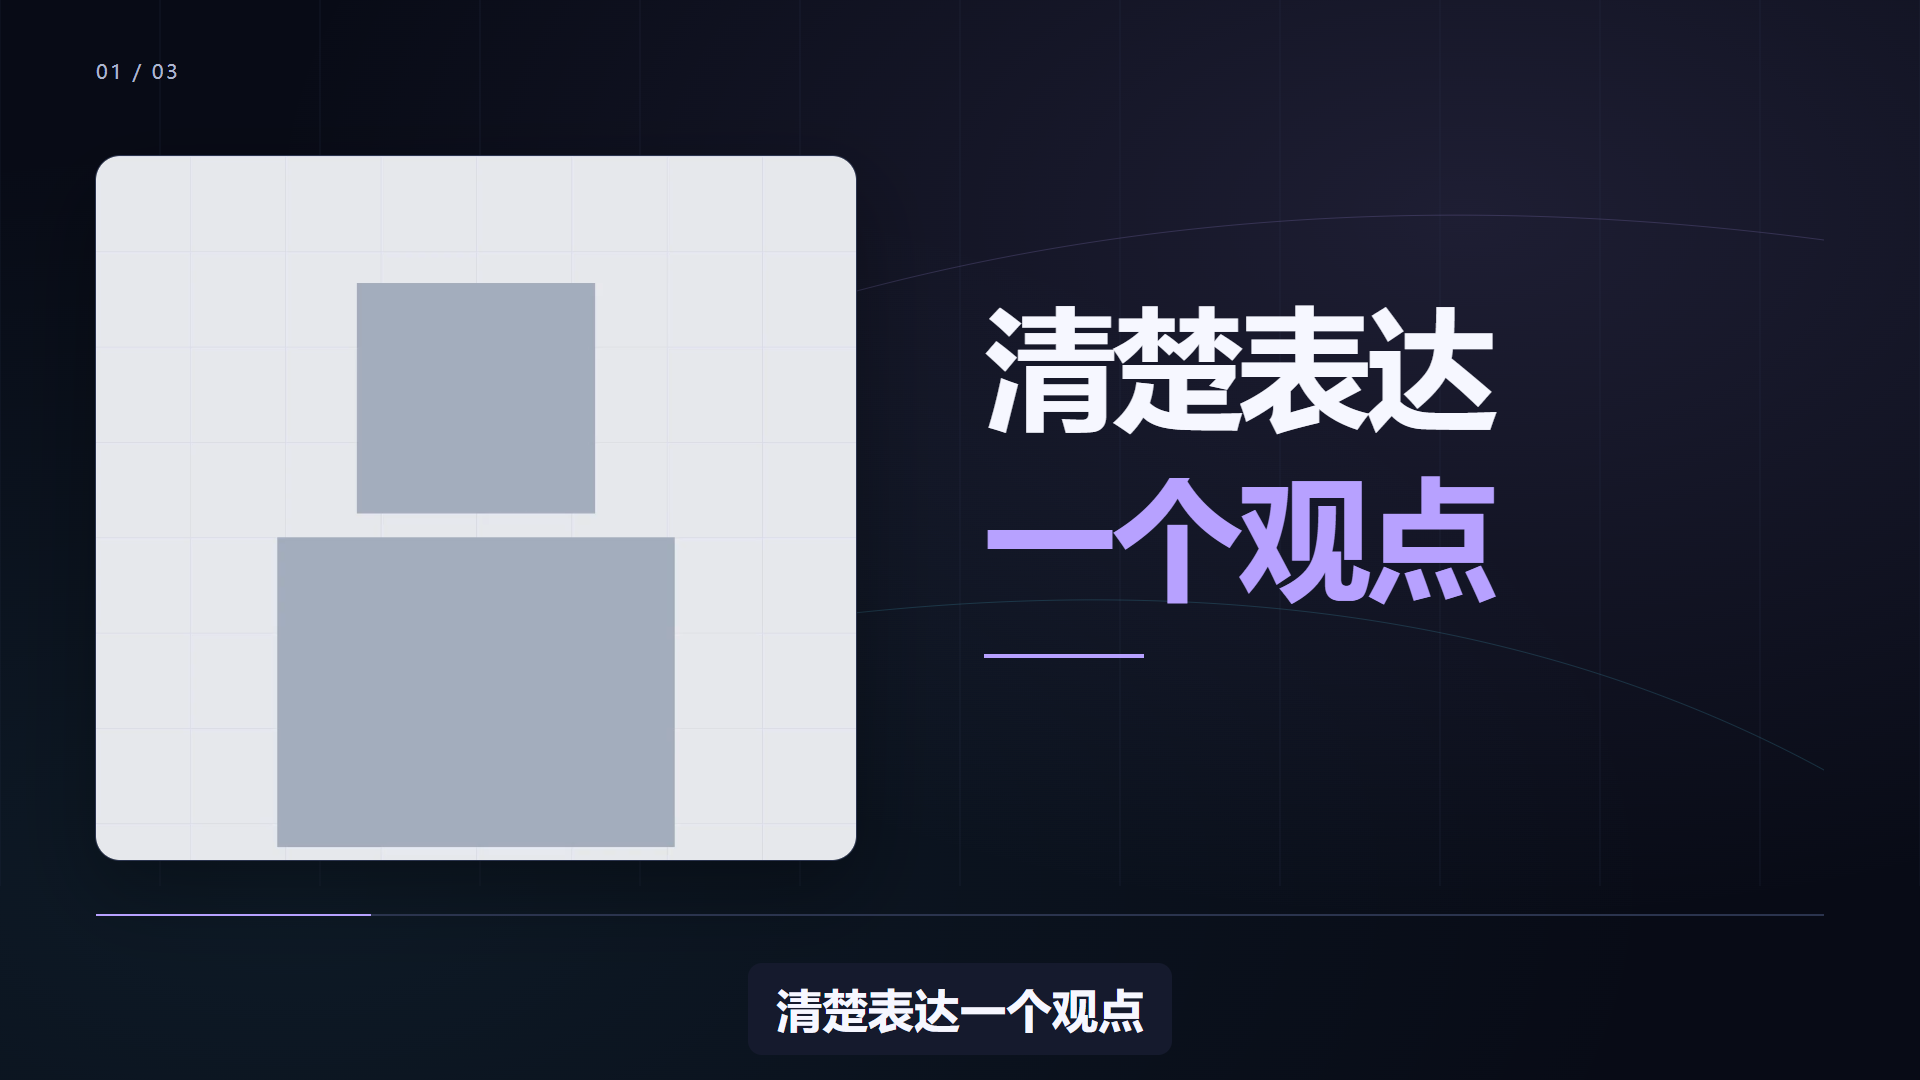
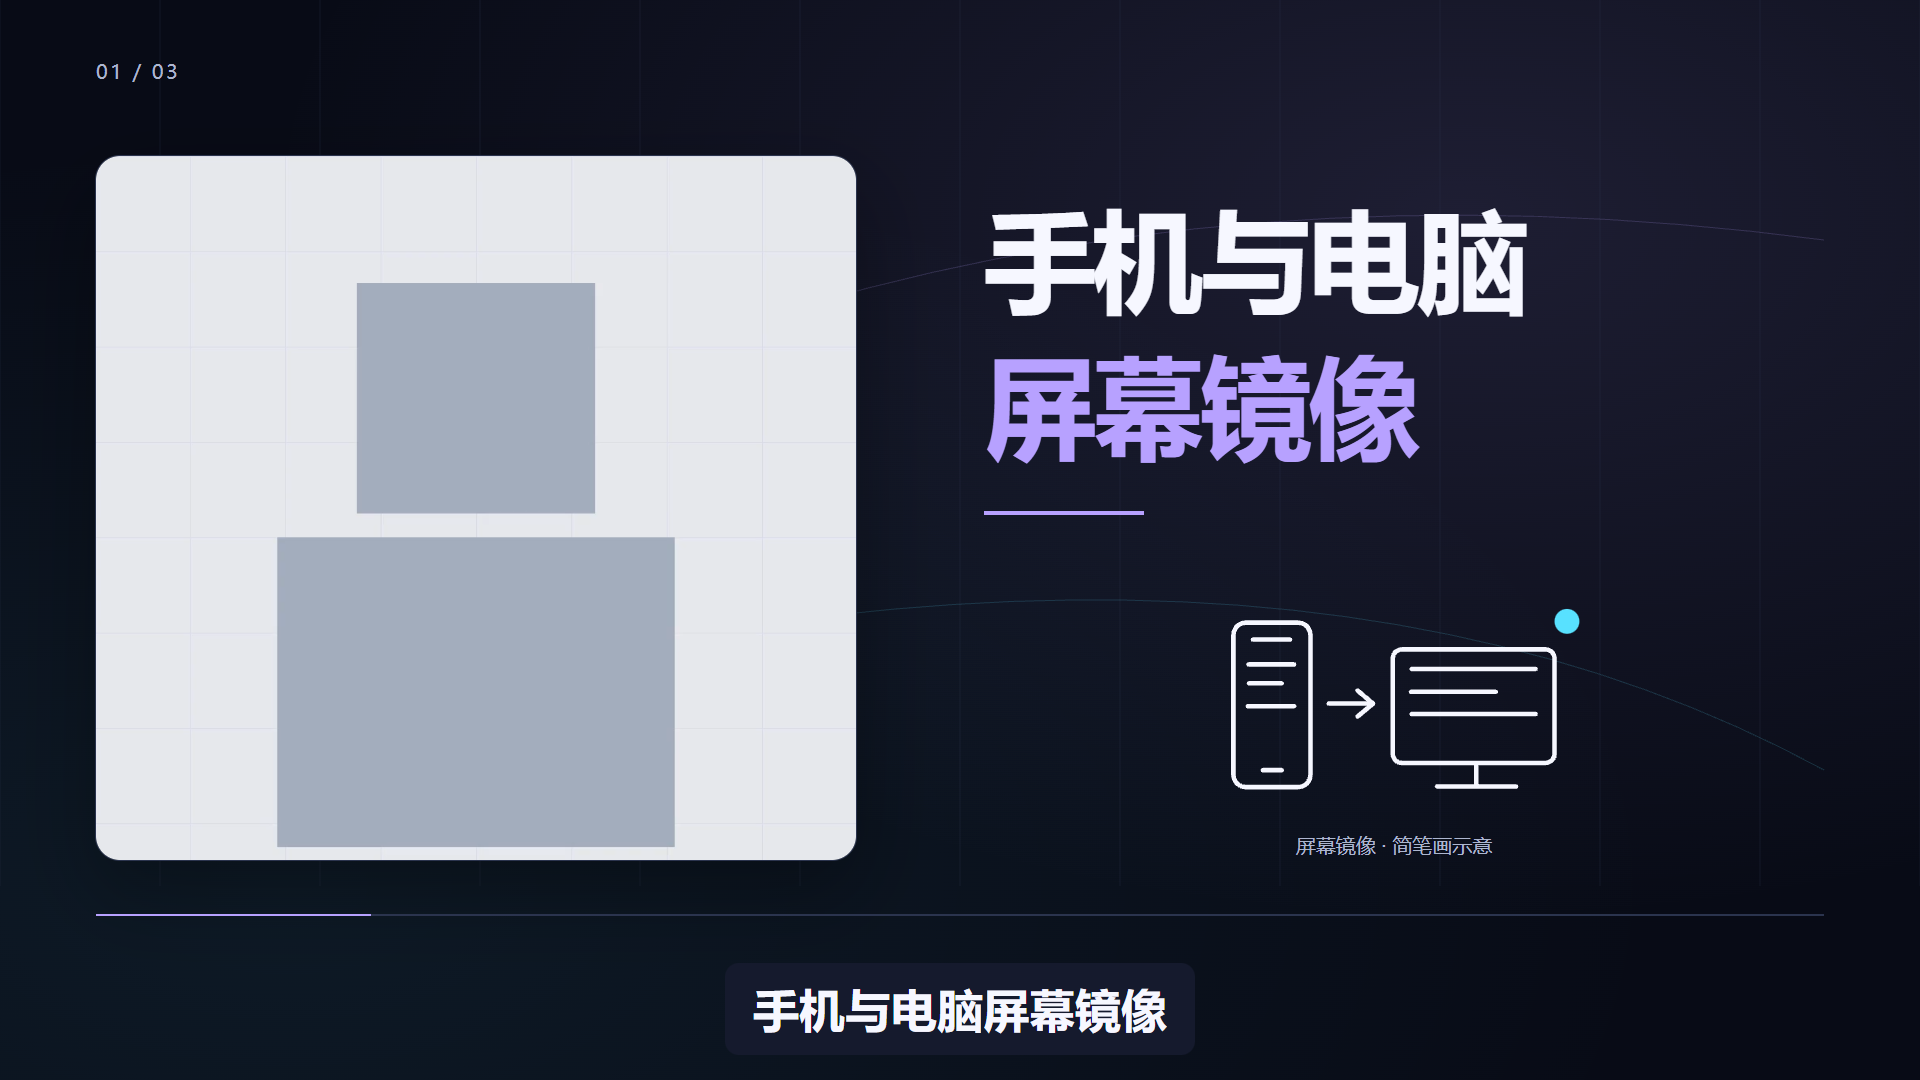
feat: add semantic line drawings and refresh current examples

diff --git a/packages/remotion-renderer/src/EditorialPresenterVideo.tsx b/packages/remotion-renderer/src/EditorialPresenterVideo.tsx
@@ -3,6 +3,7 @@ import {Video} from '@remotion/media';
 import {AbsoluteFill, staticFile, useCurrentFrame} from 'remotion';
 import type {Storyboard, StoryboardBeat} from '../../core/src/schema';
 import type {SrtCue} from '../../core/src/types';
+import {SourceDoodle} from './illustrations/SourceDoodle';
 
 type Rect = {x: number; y: number; w: number; h: number; r: number};
 type Mode = NonNullable<StoryboardBeat['liteDirection']>['mode'];
@@ -61,6 +62,7 @@ export const EditorialPresenterVideo = ({storyboard: s, cues}: {storyboard: Stor
   const sourceScale = Math.max(rect.w / 1920, rect.h / 886) * (1 + focus);
   const videoWidth = 1920 * sourceScale; const videoHeight = 1080 * sourceScale;
   const direction = beat.liteDirection;
+  const doodle = direction?.doodle;
   const lines = direction?.lines ?? (beat.liteLayout === 'flow' ? (beat.liteItems ?? []).map((text) => Array.from(text).slice(0, 24).join('')) : [beat.content.structure === 'thesis-and-proof' ? beat.content.thesis : beat.text]);
   const label = direction?.eyebrow ?? '';
   const cue = cues.find((q) => q.start <= frame / s.fps && q.end > frame / s.fps);
@@ -88,23 +90,30 @@ export const EditorialPresenterVideo = ({storyboard: s, cues}: {storyboard: Stor
       <span style={{color: mode === 'focus' || mode === 'closing' ? '#FFFFFF' : c.muted}}>{String(index + 1).padStart(2, '0')} / {String(s.beats.length).padStart(2, '0')}</span>
       <span style={{color: c.main}}>{label}</span>
     </div>
-    {mode === 'process' ? <div style={{...textStyle, left: 120, top: 226, width: 1000}}>
+    {mode === 'process' ? <div style={{...textStyle, left: 120, top: doodle ? 170 : 226, width: 1000}}>
       <div style={{height: 4, width: 130 * ready, background: c.main, marginBottom: 32}}/>
       {lines.map((text, i) => {
         const k = out((local - s.fps * (.3 + i * .14)) / (s.fps * .36));
         return <div key={i} style={{display: 'flex', alignItems: 'center', gap: 32, borderBottom: `1px solid ${c.line}`,
-          padding: '26px 0', opacity: k, transform: `translateX(${(1 - k) * -40}px)`}}>
+          padding: doodle ? '14px 0' : '26px 0', opacity: k, transform: `translateX(${(1 - k) * -40}px)`}}>
           <span style={{fontSize: 24, color: c.sub}}>0{i + 1}</span>
-          <div style={{fontSize: fontSize(text, 820, 100), fontWeight: 900, lineHeight: 1.22, whiteSpace: 'nowrap', color: i === (direction?.highlight ?? lines.length - 1) ? c.main : c.ink}}>{text}</div>
+          <div style={{fontSize: fontSize(text, 820, doodle ? 82 : 100), fontWeight: 900, lineHeight: 1.22, whiteSpace: 'nowrap', color: i === (direction?.highlight ?? lines.length - 1) ? c.main : c.ink}}>{text}</div>
         </div>;
       })}
-    </div> : <div style={{...textStyle, left: x, top: mode === 'closing' ? 640 : mode === 'focus' ? 230 : 285,
+    </div> : <div style={{...textStyle, left: x, top: mode === 'closing' ? (doodle ? 230 : 640) : mode === 'focus' ? 230 : doodle ? 190 : 285,
       ...(mode === 'focus' || mode === 'closing' ? {background: `${c.bg}ED`, padding: 30, borderLeft: `4px solid ${c.main}`, borderRadius: '0 16px 16px 0'} : {})}}>
       {label && <div style={{fontSize: 24, color: c.sub, marginBottom: 28, letterSpacing: '.04em'}}>{label}</div>}
-      <Emphasis lines={lines} highlight={direction?.highlight ?? lines.length - 1} width={width} size={mode === 'focus' || mode === 'closing' ? 74 : 132}
+      <Emphasis lines={lines} highlight={direction?.highlight ?? lines.length - 1} width={width} size={mode === 'focus' || mode === 'closing' ? 74 : doodle ? 112 : 132}
         local={local} fps={s.fps} color={c.main} ink={c.ink}/>
       <div style={{width: 160 * ready, height: 4, background: c.main, marginTop: 28}}/>
     </div>}
+    {doodle ? <div data-source-doodle={doodle.type} style={{position: 'absolute', zIndex: 3,
+      left: mode === 'hero' ? 984 : 120, top: 590, width: mode === 'focus' || mode === 'closing' ? 540 : mode === 'process' ? 960 : 820,
+      height: 264, opacity: ready, color: c.muted,
+      ...(mode === 'focus' || mode === 'closing' ? {background: `${c.bg}F0`, borderRadius: 16, padding: 12, boxSizing: 'border-box'} : {})}}>
+      <div style={{height: mode === 'focus' || mode === 'closing' ? 210 : 235}}><SourceDoodle type={doodle.type} progress={out((local - s.fps * .48) / (s.fps * .55))} accent={c.sub} ink={c.ink}/></div>
+      <div style={{fontSize: 20, textAlign: 'center', marginTop: 7}}>{doodle.label} · 简笔画示意</div>
+    </div> : null}
     <div style={{position: 'absolute', left: 96, right: 96, top: 914, height: 2, background: c.line, zIndex: 4}}>
       <div style={{height: '100%', width: `${clamp(frame / (Math.ceil(s.duration * s.fps) - 1)) * 100}%`, background: c.main}}/>
     </div>

diff --git a/tests/readme-integrity.test.ts b/tests/readme-integrity.test.ts
@@ -11,23 +11,20 @@ describe('public README evidence', () => {
   it('links only existing local preview assets', () => {
     const markdown = read('README.md').toString('utf8');
     const links = [...markdown.matchAll(/!\[[^\]]*\]\(([^)]+)\)/g)].map((match) => match[1]);
-    expect(links.length).toBeGreaterThanOrEqual(7);
+    expect(links.length).toBeGreaterThanOrEqual(4);
+    expect(markdown).not.toContain('docs/assets/previews/');
     for (const link of links) expect(existsSync(resolve(root, link))).toBe(true);
   });
 
   it('maps every preview to the verified output and matching file hash', () => {
-    const manifest = JSON.parse(read('examples/auto-editing-0/preview-manifest.json').toString('utf8'));
[1 lines of base64/hex data omitted]
-    expect(new Set(manifest.frames.map((frame: {presentationMode: string}) => frame.presentationMode))).toEqual(new Set(['presenter-safe', 'opaque-full-screen']));
-    for (const frame of manifest.frames) {
-      const path = resolve(root, 'examples/auto-editing-0', frame.file);
+    const manifest = JSON.parse(read('examples/current-demo/preview-manifest.json').toString('utf8'));
+    expect(manifest.kind).toBe('synthetic-renderer-example');
+    expect(manifest.version).toBe(JSON.parse(read('package.json').toString('utf8')).version);
+    for (const frame of manifest.images) {
+      const path = resolve(root, frame.file);
       expect(existsSync(path)).toBe(true);
-      expect(sha256(readFileSync(path))).toBe(frame.sha256);
-      expect(frame.timeSeconds).toBeGreaterThanOrEqual(0);
-      expect(frame.timeSeconds).toBeLessThanOrEqual(manifest.output.durationSeconds);
+      expect(sha256(readFileSync(path))).toBe(frame.sha256.toUpperCase());
     }
-    const contactSheet = resolve(root, 'examples/auto-editing-0', manifest.contactSheet.file);
-    expect(sha256(readFileSync(contactSheet))).toBe(manifest.contactSheet.sha256);
   });
 
   it('keeps the approved business WeChat and QR code together at the end', () => {

diff --git a/packages/remotion-renderer/src/illustrations/SourceDoodle.tsx b/packages/remotion-renderer/src/illustrations/SourceDoodle.tsx
@@ -1,0 +1,34 @@
+import type {ReactElement} from 'react';
+import type {PUBLIC_DOODLE_TYPES} from '../../../core/src/schema';
+import {illustrationRegistry} from './index';
+import {Frame} from './Frame';
+import type {IllustrationProps} from './types';
+
+type DoodleType = (typeof PUBLIC_DOODLE_TYPES)[number];
+/** Generic conceptual diagrams. No logos, screenshots or claims of device operation. */
+export const SourceDoodle = ({type, ...props}: IllustrationProps & {type: DoodleType}): ReactElement => {
+  const shared = {...props, normalized: true};
+  if (type === 'phone-mirror') return <Frame {...shared}>
+    <rect x="74" y="50" width="118" height="252" rx="19"/>
+    <path d="M104 76h57M119 276h29M97 114h70M98 143h50M96 178h71"/>
+    <rect x="318" y="91" width="248" height="174" rx="14"/>
+    <path d="M347 121h190M346 156h130M347 190h190M446 266v34M386 301h121M220 174h68m-24-20 24 20-24 20"/>
+  </Frame>;
+  if (type === 'notes') return <Frame {...shared}>
+    <path d="M72 77h124v176H72zM96 59h124v176M96 117h69M96 150h69M96 184h44"/>
+    <path d="M240 174h75m-23-20 23 20-23 20"/>
+    <rect x="358" y="53" width="196" height="254" rx="14"/>
+    <path d="M385 88h138M386 125h111M386 162h137M386 199h93M387 249h87"/>
+    <path d="m492 247 36-40 14 14-36 40-25 12zM528 207l14 14" stroke={props.accent}/>
+  </Frame>;
+  if (type === 'agent-output') return <Frame {...shared}>
+    <rect x="92" y="100" width="166" height="166" rx="21"/>
+    <rect x="129" y="136" width="92" height="93" rx="12"/>
+    <path d="M116 76v24M154 76v24M192 76v24M230 76v24M116 266v24M154 266v24M192 266v24M230 266v24M66 128h26M66 168h26M66 208h26M66 246h26"/>
+    <path d="M281 181h93m-24-22 24 22-24 22" stroke={props.accent}/>
+    <rect x="412" y="63" width="152" height="240" rx="13"/>
+    <path d="M438 105h100M438 141h82M438 177h101M438 213h70M438 253h95"/>
+  </Frame>;
+  const Existing = illustrationRegistry[type];
+  return <Existing {...shared}/>;
+};

diff --git a/packages/remotion-renderer/src/illustrations/Frame.tsx b/packages/remotion-renderer/src/illustrations/Frame.tsx
@@ -1,20 +1,27 @@
-import type {ReactNode} from 'react';
+import {Children, cloneElement, isValidElement, type ReactNode} from 'react';
 import type {IllustrationProps} from './types';
 
-export const Frame = ({progress, accent, children}: IllustrationProps & {children: ReactNode}) => {
+const normalizedPaths = (children: ReactNode): ReactNode => Children.map(children, (child) => {
+  if (!isValidElement<{children?: ReactNode}>(child)) return child;
+  const shape = typeof child.type === 'string' && ['path', 'rect', 'circle', 'ellipse', 'line', 'polyline', 'polygon'].includes(child.type);
+  return cloneElement(child, {...(shape ? {pathLength: 1} : {}),
+    ...(child.props.children ? {children: normalizedPaths(child.props.children)} : {})});
+});
+
+export const Frame = ({progress, accent, children, ink = '#252933', normalized = false}: IllustrationProps & {children: ReactNode}) => {
   const p = Math.max(0, Math.min(1, progress));
   return (
-    <svg viewBox="0 0 640 360" fill="none" xmlns="http://www.w3.org/2000/svg" aria-hidden="true">
+    <svg viewBox="0 0 640 360" width="100%" height="100%" fill="none" xmlns="http://www.w3.org/2000/svg" aria-hidden="true">
       <g
         fill="none"
-        stroke="#252933"
+        stroke={ink}
         strokeWidth="7"
         strokeLinecap="round"
         strokeLinejoin="round"
         opacity={0.35 + p * 0.65}
-        style={{strokeDasharray: 900, strokeDashoffset: 900 * (1 - p)}}
+        style={{strokeDasharray: normalized ? 1 : 900, strokeDashoffset: (normalized ? 1 : 900) * (1 - p)}}
       >
-        {children}
+        {normalized ? normalizedPaths(children) : children}
       </g>
       <circle cx="585" cy="48" r={10 + p * 9} fill={accent} opacity={0.55 + p * 0.45} />
     </svg>

diff --git a/packages/remotion-renderer/test/illustrations.test.tsx b/packages/remotion-renderer/test/illustrations.test.tsx
@@ -3,8 +3,20 @@ import {describe, expect, it} from 'vitest';
 import {ILLUSTRATION_SCENARIOS} from '../../core/src/schema';
 import {illustrationRegistry} from '../src/illustrations';
 import {SemanticDoodle} from '../src/illustrations/SemanticDoodle';
+import {SourceDoodle} from '../src/illustrations/SourceDoodle';
+import {PUBLIC_DOODLE_TYPES} from '../../core/src/schema';
 
 describe('illustrationRegistry', () => {
+  it('supports new source diagrams and legacy drawings with normalized strokes and selected ink', () => {
+    for (const type of PUBLIC_DOODLE_TYPES) {
+      const markup = renderToStaticMarkup(<SourceDoodle type={type} progress={.5} accent="#58E1FF" ink="#F6F7FF"/>);
+      expect(markup).toContain('stroke="#F6F7FF"');
+      expect(markup).toContain('pathLength="1"');
+      expect(markup).toContain('stroke-dashoffset:0.5');
+      expect(markup).toBe(renderToStaticMarkup(<SourceDoodle type={type} progress={.5} accent="#58E1FF" ink="#F6F7FF"/>));
+      expect(markup).not.toMatch(/<image|<text/);
+    }
+  });
   it('renders six deterministic transparent line illustrations', () => {
     expect(Object.keys(illustrationRegistry).sort()).toEqual([...ILLUSTRATION_SCENARIOS].sort());
     for (const name of ILLUSTRATION_SCENARIOS) {

diff --git a/tests/public-lite.test.ts b/tests/public-lite.test.ts
@@ -17,6 +17,15 @@ const input = {
 };
 
 describe('public-lite product boundary', () => {
+  it('keeps semantic doodle labels traceable to the spoken source', () => {
+    const cues = [{index: 1, start: 0, end: 4, text: '通过手机与电脑的屏幕镜像完成展示'}];
+    const plan = planStoryboard({...input, cues, probe: {...input.probe, duration: 4}, litePresenter: true,
+      liteDirectionByCue: {1: {mode: 'split', lines: ['屏幕镜像'], doodle: {type: 'phone-mirror', label: '屏幕镜像'}}}});
+    expect(plan.beats[0].liteDirection?.doodle?.type).toBe('phone-mirror');
+    expect(() => assertDirectorPlan(plan)).not.toThrow();
+    expect(() => planStoryboard({...input, cues, probe: {...input.probe, duration: 4}, litePresenter: true,
+      liteDirectionByCue: {1: {mode: 'split', lines: ['屏幕镜像'], doodle: {type: 'phone-mirror', label: '未经说明的自动操作'}}}})).toThrow(/literal excerpt/);
+  });
   it('rejects directed claims absent from the supplied source', () => {
     expect(() => planStoryboard({...input, litePresenter: true, liteDirectionByCue: {1: {mode: 'hero', lines: ['不存在的业务结论']}}})).toThrow(/literal excerpt/);
   });

diff --git a/packages/core/src/director-validation.ts b/packages/core/src/director-validation.ts
@@ -31,7 +31,10 @@ export const validateDirectorPlan = (storyboard: Storyboard): DirectorIssue[] =>
     const expectedPalette = storyboard.publicStyle === 'paper' ? 'editorial-cream' : 'deep-ocean';
     return storyboard.beats.flatMap((beat): DirectorIssue[] => {
       const issues: DirectorIssue[] = [];
-      if (beat.liteDirection && [...beat.liteDirection.lines, beat.liteDirection.eyebrow ?? ''].some((copy) => copy && !beat.text.includes(copy))) {
+      if (beat.liteDirection?.doodle && !storyboard.litePresenter) {
+        issues.push({code: 'content-contract', beatId: beat.id, message: 'Semantic doodles require single-presenter composition'});
+      }
+      if (beat.liteDirection && [...beat.liteDirection.lines, beat.liteDirection.eyebrow ?? '', beat.liteDirection.doodle?.label ?? ''].some((copy) => copy && !beat.text.includes(copy))) {
         issues.push({code: 'content-contract', beatId: beat.id, message: 'Directed emphasis must use literal excerpts of the current source beat'});
       }
       if (!beat.liteLayout || beat.illustration || beat.evidence || beat.palette !== expectedPalette || beat.structure !== 'thesis-and-proof') {

diff --git a/packages/remotion-renderer/src/PublicLiteVideo.tsx b/packages/remotion-renderer/src/PublicLiteVideo.tsx
@@ -61,6 +61,7 @@ export const PublicLiteVideo = ({storyboard: s, cues, overlayOnly}: {storyboard:
   const frame = useCurrentFrame(); const c = palette(s.publicStyle === 'paper'); const active = activeAt(s, frame);
   if (s.litePresenter && !overlayOnly) return <EditorialPresenterVideo storyboard={s} cues={cues}/>;
   if (s.litePresenter && overlayOnly) throw new Error('Presenter layout requires composite output');
+  if (s.beats.some((beat) => beat.liteDirection?.doodle)) throw new Error('Semantic doodles require single-presenter composition');
   if (overlayOnly && s.liteCamera) throw new Error('Source camera motion requires composite output');
   const redrawBurned = !overlayOnly && s.captionsMode === 'burned-in' && (s.liteCamera || active?.liteLayout === 'title' || active?.liteLayout === 'flow');
   if (redrawBurned && !cues.length) throw new Error('Public-lite composite requires SRT cues to preserve covered burned-in subtitles');

diff --git a/packages/core/src/schema.ts b/packages/core/src/schema.ts
@@ -43,6 +43,8 @@ export const ILLUSTRATION_SCENARIOS = [
   'before-after-illustration',
 ] as const;
 
+export const PUBLIC_DOODLE_TYPES = [...ILLUSTRATION_SCENARIOS, 'phone-mirror', 'notes', 'agent-output'] as const;
+
 const color = z.string().regex(/^#[0-9a-f]{6}$/i, 'Expected a six-digit hex color');
 
 const beatSchema = z.object({
@@ -74,6 +76,7 @@ const beatSchema = z.object({
     lines: z.array(z.string().trim().min(1).max(24)).min(1).max(3),
     eyebrow: z.string().trim().max(24).optional(),
     highlight: z.number().int().min(0).max(2).optional(),
+    doodle: z.object({type: z.enum(PUBLIC_DOODLE_TYPES), label: z.string().trim().min(1).max(24)}).optional(),
   }).optional(),
 }).superRefine((beat, context) => {
   if (beat.content.structure !== beat.structure) {

diff --git a/packages/core/src/public-lite.ts b/packages/core/src/public-lite.ts
@@ -51,7 +51,7 @@ export const planPublicLite = (input: PlannerInput) => {
     if (layout === 'card') side = side === 'left' ? 'right' : 'left';
     const title = heading(parts[0] ?? cue.text);
     const direction = input.liteDirectionByCue?.[cue.index];
-    if (direction && [...direction.lines, direction.eyebrow ?? ''].some((copy) => copy && !cue.text.includes(copy))) {
+    if (direction && [...direction.lines, direction.eyebrow ?? '', direction.doodle?.label ?? ''].some((copy) => copy && !cue.text.includes(copy))) {
       throw new Error(`Director copy must be a literal excerpt of source cue ${cue.index}`);
     }
     return {

diff --git a/packages/remotion-renderer/src/illustrations/types.ts b/packages/remotion-renderer/src/illustrations/types.ts
@@ -4,4 +4,6 @@ export type IllustrationProps = {
   subject?: string;
   action?: string;
   outcome?: string;
+  ink?: string;
+  normalized?: boolean;
 };

diff --git a/README.md b/README.md
@@ -10,6 +10,7 @@
 |排版|title 开场标题、card 侧边信息卡、flow 两至三个原稿条目的展示|
 |真人镜头|一个连续人物画面在全幅、左右分栏与单窗之间收放；可选1.06倍轻推近|
 |动效|标题逐行遮罩揭示、关键词强调、图文分栏、单窗收放、条目错峰与阅读停留|
+|简笔画|手机镜像、文案收集、Agent输出与六种已有线稿，按语义描线出现并标明“示意”|
 |交付检查|字幕、安全区、连续原声、完整解码、黑帧和文件哈希|
 
 输入采用已经剪好的视频与准确、同步的 SRT。项目不会自动修正口误，也不会根据零散词语编造数字、操作步骤或结论。
@@ -60,6 +61,8 @@ npm run package-video -- --srt INPUT.srt --out RUN --output-mode overlay --width
 
 Agent应先逐句分析语义，并用 `--direction DIRECTION.json` 提炼原句关键词与构图意图。该文件按SRT序号指定 `mode`、`lines`、可选 `eyebrow` 和 `highlight`，每个上屏词必须原样出现在对应原句中。它只描述展示方式，不改字幕、原声或源视频。示例见 [direction.json](examples/current-demo/direction.json)。所有审核阶段保持相同输入和参数。
 
+需要简笔画时，在相应方向条目中加入 `"doodle": {"type": "phone-mirror", "label": "屏幕镜像"}`。标签必须取自该句原稿；图形是概念示意，不是真实设备操作或截图。当前简笔画用于单窗合成MP4，图形区与文字、人物和字幕分开。支持的类型见 [功能与限制](references/public-lite.md)。
+
 ## 检查与限制
 
 ```bash
@@ -89,33 +92,11 @@ npm run verify:public
 
 示例字幕与生成方法见 [示例目录](examples/current-demo/README.md)。
 
-## 历史V2效果记录
+## 当前简笔画示例
 
-<details><summary>展开V2案例截图</summary>
+![手机与电脑镜像简笔画示意](docs/assets/current-demo/doodle.png)
 
-这个已有V2案例为49.273秒、21条SRT，使用8种结构与6套配色。以下截图来自该次成片，展示V2工程的输出；当前CLI使用上面的三种版式。
-
-![真实调用八帧总览](docs/assets/previews/auto-editing-0-contact-sheet.jpg)
-
-![论点与证据](docs/assets/previews/auto-editing-0-01-thesis-and-proof-1.920s.png)
-
-![双侧编辑轨](docs/assets/previews/auto-editing-0-02-editorial-dual-rail-4.269s.png)
-
-![保留口语数值的指标结构](docs/assets/previews/auto-editing-0-03-metric-odometer-6.403s.png)
-
-![命令面板](docs/assets/previews/auto-editing-0-04-command-palette-10.546s.png)
-
-![人物推石上坡的语义简笔画](docs/assets/previews/auto-editing-0-05-semantic-doodle-15.606s.png)
-
-![前后对比](docs/assets/previews/auto-editing-0-06-before-after-scrub-19.564s.png)
-
-![四阶段流程](docs/assets/previews/auto-editing-0-07-four-stage-pipeline-21.501s.png)
-
-![全屏信号路径](docs/assets/previews/auto-editing-0-08-signal-route-26.980s.png)
-
-完整历史证据：[分镜](examples/auto-editing-0/storyboard.json)、[截图manifest](examples/auto-editing-0/preview-manifest.json)。历史进阶语义结构可在 [V2参考](references/visual-structures.md) 查询。
-
-</details>
+此图由当前代码与示例文案生成。首页不再使用旧V2案例截图；真人素材与试看片留在本地，上面的公开示例明确使用合成画面。
 
 感兴趣的朋友欢迎咨询业务微信：nanaya093
 
